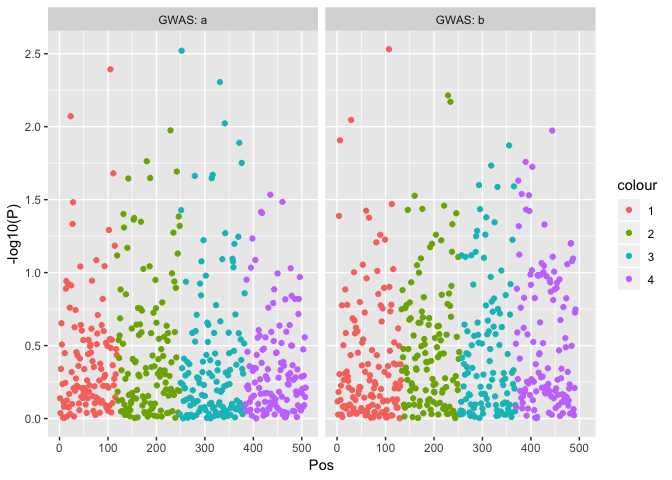
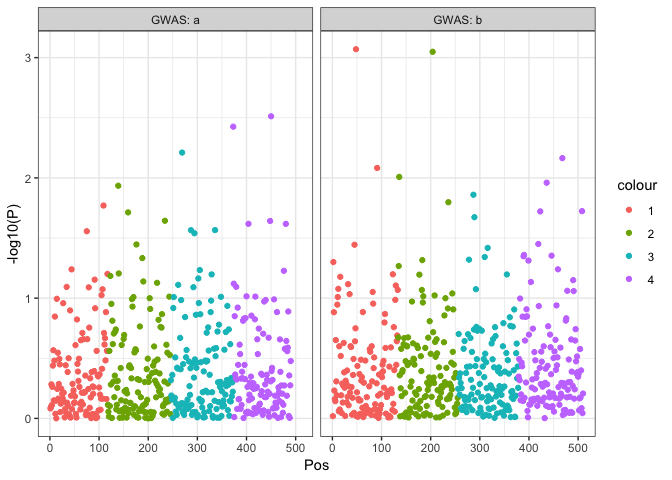
adding figure of README

diff --git a/README.md b/README.md
@@ -46,6 +46,7 @@ Install including
 library(ggGWAS)
 library(ggplot2)
 
+theme_set(theme_bw())
 ## Generate some random data
 
 df <-
